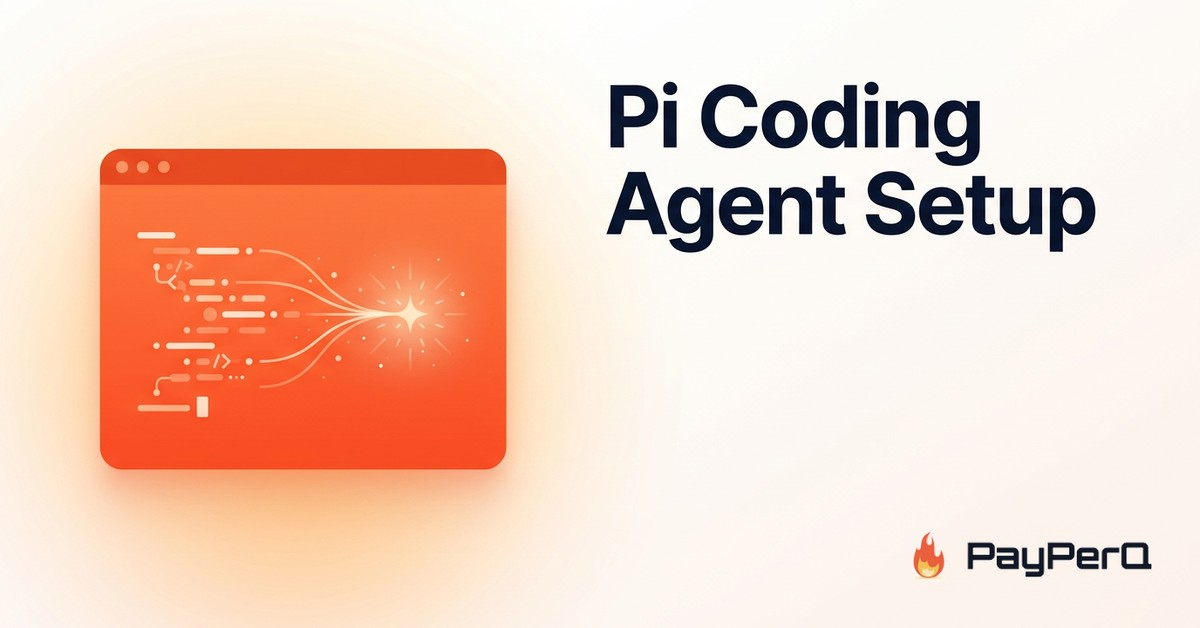
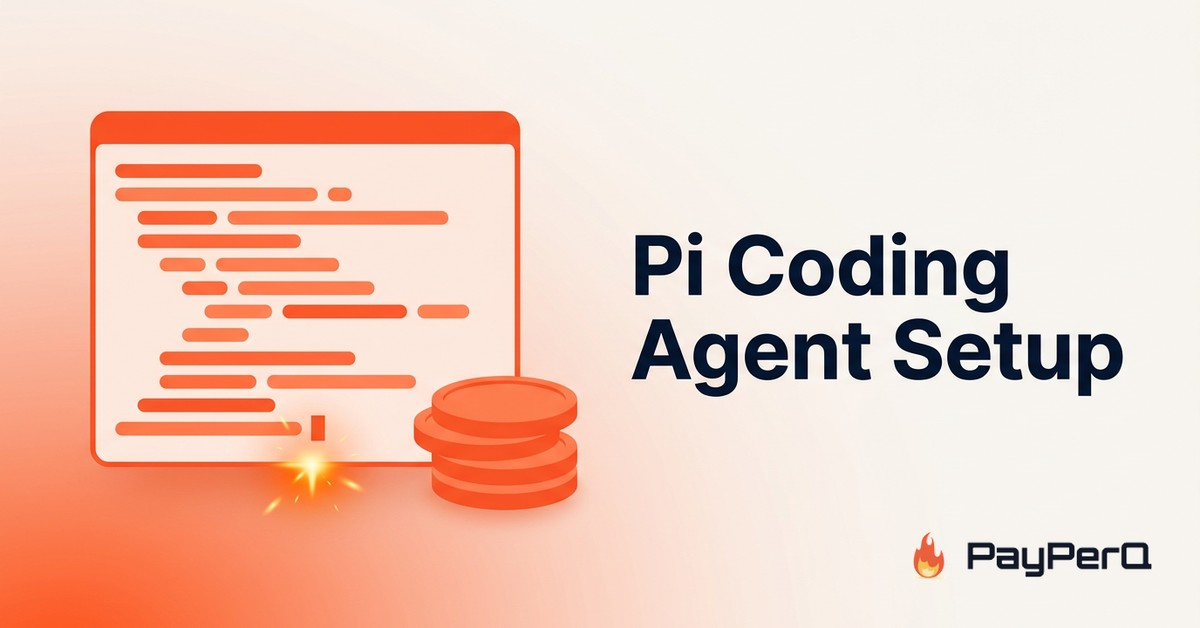
Pi guide: one screenshot per installer prompt, notes in callouts, key via /login
Rewrite from the second create run (40034671203) with two fixes carried over
from the first run:

- Step 2 shows each of the four installer prompts with its own screenshot
  instead of one summary, and the PATH wording no longer names a specific
  shell profile.
- Side notes (Windows, macOS, npm alternative, catalog mapping, Ctrl+S) move
  out of the body into blockquote callouts.
- The API key is stored with Pi's /login (auth.json) after models.json
  exists, as in the first run; models.json ships without an apiKey field.
- claude-sonnet-5.5 dropped from the example models.json (never exercised).

diff --git a/guides/using-pi-with-payperq.md b/guides/using-pi-with-payperq.md
@@ -1,10 +1,10 @@
 ---
 title: Using Pi with PayPerQ
 slug: using-pi-with-payperq
-date: 2026-10-22
+date: 2026-10-26
 image: /blog-images/using-pi-with-payperq/cover.jpg
 ogImage: /blog-images/using-pi-with-payperq/cover.jpg
-intro: Run the Pi terminal coding agent on pay-per-use PayPerQ models instead of a subscription, with the key stored in Pi's own credential file.
+intro: Run the Pi terminal coding agent on PayPerQ models by adding PayPerQ as a custom provider in Pi's models.json.
 author: PayPerQ
 tags:
   - Third Party Integrations
@@ -12,59 +12,84 @@ tags:
 
 ## What is Pi?
 
-Pi is an AI agent that works from your terminal. You give it a goal and a working folder, and it can inspect files, run commands, edit content and work through multi-step tasks. Pi is made by Earendil Inc. and contributors and is released under the MIT License ([pi.dev](https://pi.dev)).
+[Pi](https://pi.dev) is a terminal-based coding agent from Earendil Inc. and contributors, released under the MIT license. You start it in a project folder, give it a task, and it reads files, runs commands and edits content, showing each step in the terminal.
 
-Pi is built to be adapted to your workflow through extensions, skills, prompt templates and themes, and it supports many model providers. PayPerQ is not one of its built-in providers, but Pi accepts any OpenAI-compatible endpoint through a `models.json` file, which is what this guide uses.
+Pi is deliberately minimal and configurable: it supports skills, `AGENTS.md` files, extensions, prompt templates and themes, and it can talk to any model service that offers an OpenAI-, Anthropic- or Google-compatible API. PayPerQ exposes an OpenAI-compatible API, so you can use it as Pi's model provider.
 
 ## Step by Step Set Up
 
 ### 1. Prerequisites
 
-- A PayPerQ account and API key. Open [ppq.ai/api-docs](https://ppq.ai/api-docs) to see your key and the base URL (`https://api.ppq.ai`). You can create more keys at [ppq.ai/api-keys](https://ppq.ai/api-keys).
+- A PayPerQ account and API key. Copy your key from [ppq.ai/api-docs](https://ppq.ai/api-docs); you can create extra keys at [ppq.ai/api-keys](https://ppq.ai/api-keys).
 - macOS or Linux for the installer used below.
-- Node.js 22.19 or newer only if you install Pi from npm. The installer in step 2 downloads its own Node.js if you do not have one.
+
+> **Note:** Pi needs Node.js 22.19.0 or newer. The installer offers to install a standalone Node.js for you, so you only need your own Node.js if you install Pi from npm instead.
+
+> **Windows:** Pi runs natively on Windows or inside WSL; follow the [Windows setup page](https://pi.dev/docs/latest/windows). Not executed for this guide.
 
 ### 2. Install Pi
 
 Run the official installer:
 
-```
+```bash
 curl -fsSL https://pi.dev/install.sh | sh
 ```
 
-If Node.js is missing, the installer asks whether to install a standalone Node.js. Answer `Y`:
+The installer asks four questions. Answer them one at a time.
 
-![Pi installer asking to install Node.js](/blog-images/using-pi-with-payperq/01-install-prompt.png)
+**Install Node.js.** The installer checks for Node.js 22.19.0 or newer. If it is missing, it asks whether to install a standalone copy. Press Enter to accept (`Y`).
 
-It then asks where to install Pi (`/home/<you>/.pi/agent/bin/pi`) and offers to add that folder to your `PATH` in `~/.bashrc`. When it finishes it asks "Start pi now?":
+![Installer asking to install Node.js](/blog-images/using-pi-with-payperq/01-installer-nodejs-prompt.png)
 
-![Pi installer finished](/blog-images/using-pi-with-payperq/04-install-done.png)
+**Confirm the install.** The installer shows that Pi will go to `~/.pi/agent/bin/pi` and offers `y` (Install Pi, default) or `n`. Press Enter.
 
-Open a new shell, or run the `export PATH=...` line the installer prints, and check the install:
+![Installer asking to choose an action](/blog-images/using-pi-with-payperq/02-installer-action-prompt.png)
 
-```
+**Add Pi to your PATH.** The installer asks whether to add `~/.pi/agent/bin` to your PATH in your shell profile. Press Enter to accept.
+
+![Installer asking to add Pi to PATH](/blog-images/using-pi-with-payperq/03-installer-path-prompt.png)
+
+> **macOS:** the installer edits the profile of your shell; on macOS that is zsh, so expect `~/.zshrc` rather than `~/.bashrc`. Not executed for this guide, which ran on Linux with bash.
+
+**Start now?** The installer asks `Start pi now? [Y/n]`. Answer `n`; you will start Pi in step 3.
+
+![Installer asking whether to start Pi now](/blog-images/using-pi-with-payperq/04-installer-start-prompt.png)
+
+Open a new terminal window so the PATH change applies, then check the install:
+
+```bash
 pi --version
 ```
 
-![pi --version](/blog-images/using-pi-with-payperq/05-version.png)
+![pi --version printing 1.4.0](/blog-images/using-pi-with-payperq/05-pi-version.png)
 
-The installer edited `~/.bashrc` in this run. This guide did not run the installer on macOS, so if you use zsh and `pi` is not found, add `export PATH="$HOME/.pi/agent/bin:$PATH"` to `~/.zshrc` yourself.
+> **Alternative:** install from npm with `npm install -g --ignore-scripts @earendil-works/pi-coding-agent` (needs Node.js 22.19 or newer). Not executed for this guide.
 
-If you prefer npm: `npm install -g --ignore-scripts @earendil-works/pi-coding-agent` (from the Pi docs, not run for this guide).
+### 3. Start Pi
 
-Pi's docs have separate pages for [Windows](https://pi.dev/docs/latest/windows) and [Android](https://pi.dev/docs/latest/termux); this guide did not run those.
+Change to the folder you want Pi to work in and start it:
 
-### 3. Add PayPerQ as a provider
+```bash
+cd /path/to/your/project
+pi
+```
 
-Pi reads custom providers from `~/.pi/agent/models.json` (the agent directory defaults to `~/.pi/agent`). Create the file in any text editor (for example `mkdir -p ~/.pi/agent && nano ~/.pi/agent/models.json`) with this content:
+Pi opens without asking any setup questions. It warns that no models are available, because it does not know any provider yet. Leave Pi open and continue with step 4.
+
+![Pi first start with the no models available warning](/blog-images/using-pi-with-payperq/06-pi-first-start.png)
+
+> **Note:** PayPerQ is not one of Pi's built-in providers, so it does not appear in `/login` yet. You first describe it in a config file (step 4); after that, `/login` lists it and stores your key (step 5).
+
+### 4. Add PayPerQ as a provider
+
+Open a second terminal. Create the file `~/.pi/agent/models.json` in your editor (this is Pi's agent directory; the folder already exists after the install) and paste this:
 
 ```json
 {
-  "$schema": "https://pi.dev/schemas/models.schema.json",
   "providers": {
     "payperq": {
       "name": "PayPerQ",
-      "baseUrl": "https://api.ppq.ai",
+      "baseUrl": "https://api.ppq.ai/v1",
       "api": "openai-completions",
       "models": [
         {
@@ -75,18 +100,11 @@ Pi reads custom providers from `~/.pi/agent/models.json` (the agent directory de
           "cost": { "input": 0.211, "output": 1.31875, "cacheRead": 0.0211, "cacheWrite": 0.211 }
         },
         {
-          "id": "gemini-3.7-flash",
-          "name": "Gemini 3.7 Flash",
+          "id": "claude-haiku-4.5",
+          "name": "Claude Haiku 4.5",
           "input": ["text", "image"],
-          "contextWindow": 1048576,
-          "cost": { "input": 0.375, "output": 1.875, "cacheRead": 0.0375, "cacheWrite": 0.02083333333333335 }
-        },
-        {
-          "id": "claude-sonnet-5.5",
-          "name": "Claude Sonnet 5.5",
-          "input": ["text", "image"],
-          "contextWindow": 1000000,
-          "cost": { "input": 2.11, "output": 10.55, "cacheRead": 0.1055, "cacheWrite": 2.6375 }
+          "contextWindow": 200000,
+          "cost": { "input": 1.055, "output": 5.275, "cacheRead": 0.1055, "cacheWrite": 1.31875 }
         }
       ]
     }
@@ -94,30 +112,13 @@ Pi reads custom providers from `~/.pi/agent/models.json` (the agent directory de
 }
 ```
 
-![models.json](/blog-images/using-pi-with-payperq/07-models-json.png)
+The file holds no key: you store that with `/login` in the next step.
 
-The three models are an example. The full list is the [PayPerQ catalog](https://api.ppq.ai/v1/models), which uses a different format than Pi's `models.json`. To add a model, copy these fields from its catalog entry:
+> **Note:** These two models are examples. The full list is at [api.ppq.ai/v1/models](https://api.ppq.ai/v1/models); coding agents need a model whose `supported_parameters` include `tools`. The catalog's format is different from Pi's, so map the fields by hand: `id` is Pi's `id`, `name` is `name`, `context_length` is `contextWindow`, `architecture.input_modalities` is `input` (Pi accepts only `text` and `image`), and `pricing.input_per_1M_tokens`, `output_per_1M_tokens`, `cache_read_per_1M_tokens` and `cache_write_per_1M_tokens` are `cost.input`, `cost.output`, `cost.cacheRead` and `cost.cacheWrite`.
 
-| `models.json` field | Catalog field |
-| --- | --- |
-| `id` | `id` |
-| `name` | `name` |
-| `contextWindow` | `context_length` |
-| `cost.input` / `cost.output` | `pricing.input_per_1M_tokens` / `pricing.output_per_1M_tokens` |
-| `cost.cacheRead` / `cost.cacheWrite` | `pricing.cache_read_per_1M_tokens` / `pricing.cache_write_per_1M_tokens` |
-| `input` | `architecture.input_modalities` (use `"text"` and `"image"`) |
+### 5. Store your API key with /login
 
-Pi works by calling tools (reading files, running commands), so choose models whose catalog entry lists `tools` in `supported_parameters`.
-
-### 4. Store your API key with /login
-
-Start Pi in any folder:
-
-```
-pi
-```
-
-Type `/login`, choose **Sign in with an API key**, and type `payperq` to filter the provider list. PayPerQ appears as "not configured":
+Go back to the terminal where Pi is running. Type `/login`, choose **Sign in with an API key**, and type `payperq` to filter the provider list. PayPerQ appears as "not configured":
 
 ![Selecting PayPerQ in /login](/blog-images/using-pi-with-payperq/10-login-select-payperq.png)
 
@@ -125,61 +126,52 @@ Press Enter. Pi asks for the key:
 
 ![Enter API key prompt](/blog-images/using-pi-with-payperq/11-login-enter-key.png)
 
-Paste `<your PayPerQ API key>` and press Enter. The field shows the key in clear text while you paste it, so do not do this while sharing your screen. Pi saves the key to `~/.pi/agent/auth.json` (file mode 600):
+Paste your PayPerQ API key and press Enter. Pi saves it to `~/.pi/agent/auth.json`:
 
 ![Key saved](/blog-images/using-pi-with-payperq/12-login-saved.png)
 
-The line starting with "Error:" only says that no default model is set yet; the key is saved. Step 5 fixes it.
+> **Note:** the line starting with "Error:" only says that no default model is set yet; the key is saved. Step 6 fixes it.
 
-You can instead put `"apiKey": "<your PayPerQ API key>"` into the `payperq` provider in `models.json`. The Pi docs say the value can also be `"$NAME"` (an environment variable) or `"!command"` (the output of a command). Pi prefers a key stored in `auth.json` over one in `models.json`. If you use an environment variable, it must be set in the shell that starts Pi (macOS uses zsh, so `~/.zshrc`, not `~/.bashrc`). Only the `/login` and literal-key routes were run for this guide.
+> **Note:** the field shows the key in clear text while you paste it, so do not do this while sharing your screen.
 
-### 5. Pick a model
+> **Alternative:** you can put `"apiKey": "<your PayPerQ API key>"` into the `payperq` provider in `models.json` instead. Pi's docs say the value can also be `"$NAME"` (an environment variable) or `"!command"` (the output of a command). Pi prefers a key stored in `auth.json` over one in `models.json`. If you use an environment variable, it must be set in the shell that starts Pi (macOS uses zsh, so `~/.zshrc`, not `~/.bashrc`). Only the `/login` and literal-key routes were run for this guide.
 
-Type `/model`. Pi lists the models from `models.json` whose provider has a key:
+### 6. Pick a model
 
-![Model picker](/blog-images/using-pi-with-payperq/13-model-picker-after-login.png)
+Type `/model`. Pi reloads `models.json` when you open this picker, and lists the PayPerQ models next to their provider id `[payperq]`. Select one with the arrow keys and Enter.
 
-Move to a model and press Enter to use it for this session. Press Ctrl+S instead to save it as the default for new sessions (Pi writes `defaultProvider` and `defaultModel` to `~/.pi/agent/settings.json`). After a restart the footer shows the saved model:
+![Pi model picker listing the PayPerQ models](/blog-images/using-pi-with-payperq/13-model-picker-after-login.png)
 
-![Default model after restart](/blog-images/using-pi-with-payperq/19-restart-default-model.png)
+> **Tip:** press Ctrl+S on a model in the picker to save it as the default for new sessions. Pi stores it in `~/.pi/agent/settings.json` as `defaultProvider` and `defaultModel`.
 
-`gpt-5.4-nano` is the cheapest of the three examples; `claude-sonnet-5.5` is a stronger choice for real coding work.
+### 7. Send a test prompt
 
-### 6. Send a test prompt
-
-Type a short prompt:
+Type a short prompt and press Enter. For a first check, use a small request, for example:
 
 ```
 Reply with the word OK
 ```
 
+Pi sends it to PayPerQ and prints the model's answer. The footer shows the current model and context size.
+
 ![Test prompt answered by gpt-5.4-nano](/blog-images/using-pi-with-payperq/09-test-prompt-answer.png)
 
-The answer comes back from the PayPerQ model, and the footer shows the token counts, the session cost and the current model. `/session` shows the totals per model. For your account-wide usage and costs, open [ppq.ai/account-activity](https://ppq.ai/account-activity).
+To see what you spent, open [ppq.ai/account-activity](https://ppq.ai/account-activity).
 
-To confirm tool calling works, ask for something Pi must run a command for:
+> **Note:** Pi's footer and `/session` token counts depend on the provider reporting usage. In our runs some answers showed no token counts in the footer, so rely on the PayPerQ activity page for real costs.
 
-```
-Use the ls command and reply with only the names of the files in this folder
-```
+### Troubleshooting
 
-![Pi running ls through a PayPerQ model](/blog-images/using-pi-with-payperq/18-tool-call-nano.png)
+**`Error: 401 "Invalid API key"` after sending a prompt.** The key Pi stored is wrong or was altered when you pasted it. Run `/login` again and paste the key from [ppq.ai/api-docs](https://ppq.ai/api-docs); no restart is needed.
 
-Pi shows each command it runs and does not ask before every tool call, so start in a folder you are happy for it to work in.
+**PayPerQ does not appear in `/login`.** Pi only lists providers it knows about. Create `~/.pi/agent/models.json` as in step 4 first, then run `/login` again.
 
-### 7. Troubleshooting
+**A PayPerQ model does not appear in `/model`.** Pi's docs say a custom model stays unavailable until Pi can resolve credentials for its provider. Do step 5, and check that `models.json` is valid JSON.
 
-- **The installer prints `sudo: not found` and fails** while installing Node.js. On a minimal Linux image without Node.js, the installer tries to install `xz-utils` with `sudo`. Install `xz-utils` yourself (for example `apt-get install xz-utils` as root) and run the installer again.
+**"No default model is configured for provider payperq" right after `/login`.** The key was saved. Pick a model with `/model`.
 
-  ![Installer failing on a missing sudo](/blog-images/using-pi-with-payperq/02-install-xz-error.png)
-
-- **`pi: command not found` after installing.** The installer adds `~/.pi/agent/bin` to `~/.bashrc` only. Open a new shell, run the `export PATH=...` line it printed, or add the line to your own shell profile.
-- **`/model` shows "No matching models".** The provider has no key yet. Pi only lists models whose provider has usable authentication; do step 4.
-- **"No default model is configured for provider payperq"** right after `/login`. The key was saved. Pick a model with `/model`.
-- **Pi stays on "Working" and never answers.** This happened once with `gemini-3.7-flash` on a prompt that made Pi run a command (no answer after 85 seconds; Escape aborted it). A plain prompt on the same model, and the same command prompt on `gpt-5.4-nano` and `claude-sonnet-5.5`, worked. If a model hangs on tool use, switch with `/model`.
-- **A yellow tmux warning about `extended-keys`** appears only when you run Pi inside tmux. Pi suggests adding `set -g extended-keys on` to `~/.tmux.conf`.
-- **Requests are rejected.** Pi's docs say to check the `api` type and `compat` settings in `models.json`. A rejected key shows up as HTTP 401 from PayPerQ; check that you pasted the key from [ppq.ai/api-docs](https://ppq.ai/api-docs).
+**Pi says "No models available" at startup.** Expected until `models.json` exists and a key is stored. Do steps 4 and 5, then open `/model`.
 
 ## Problems?
 
-Ask the chatbot at the bottom right of [ppq.ai](https://ppq.ai), join the [Telegram channel](https://t.me/+ZjJDTazIrV0zNDFh) or the [Discord](https://discord.gg/BmMntEShYg).
+Please contact us through the customer communication chatbot in the bottom right of ppq.ai, in our [Telegram channel](https://t.me/+ZjJDTazIrV0zNDFh), or on [Discord](https://discord.gg/BmMntEShYg).
